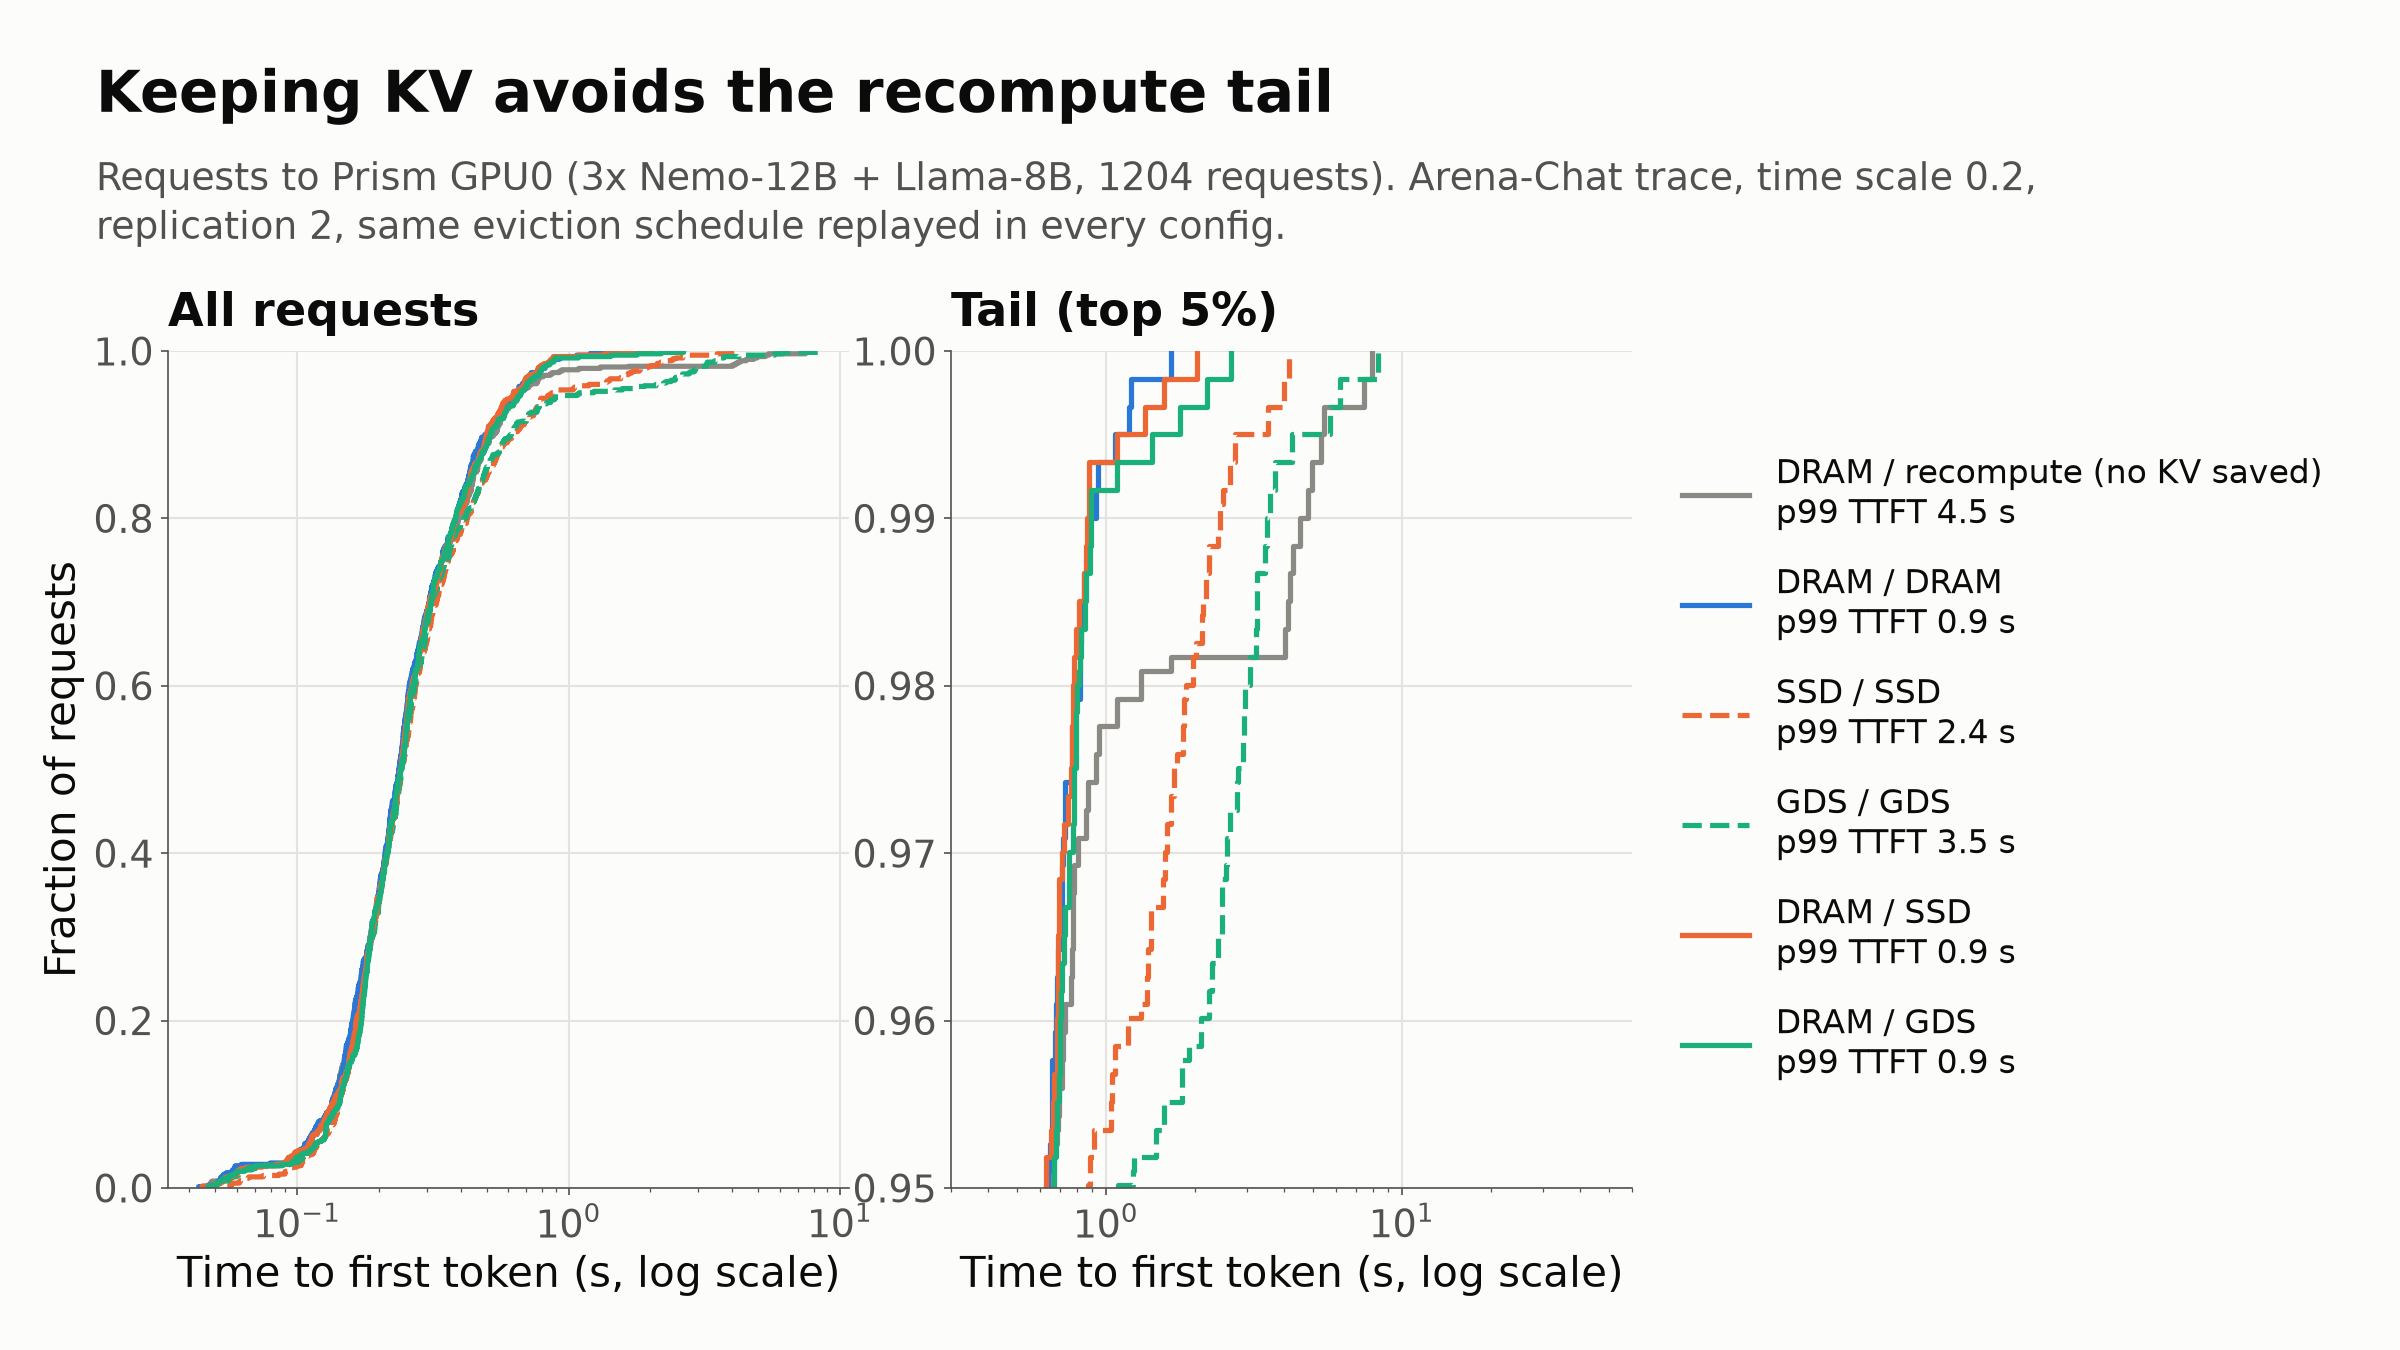
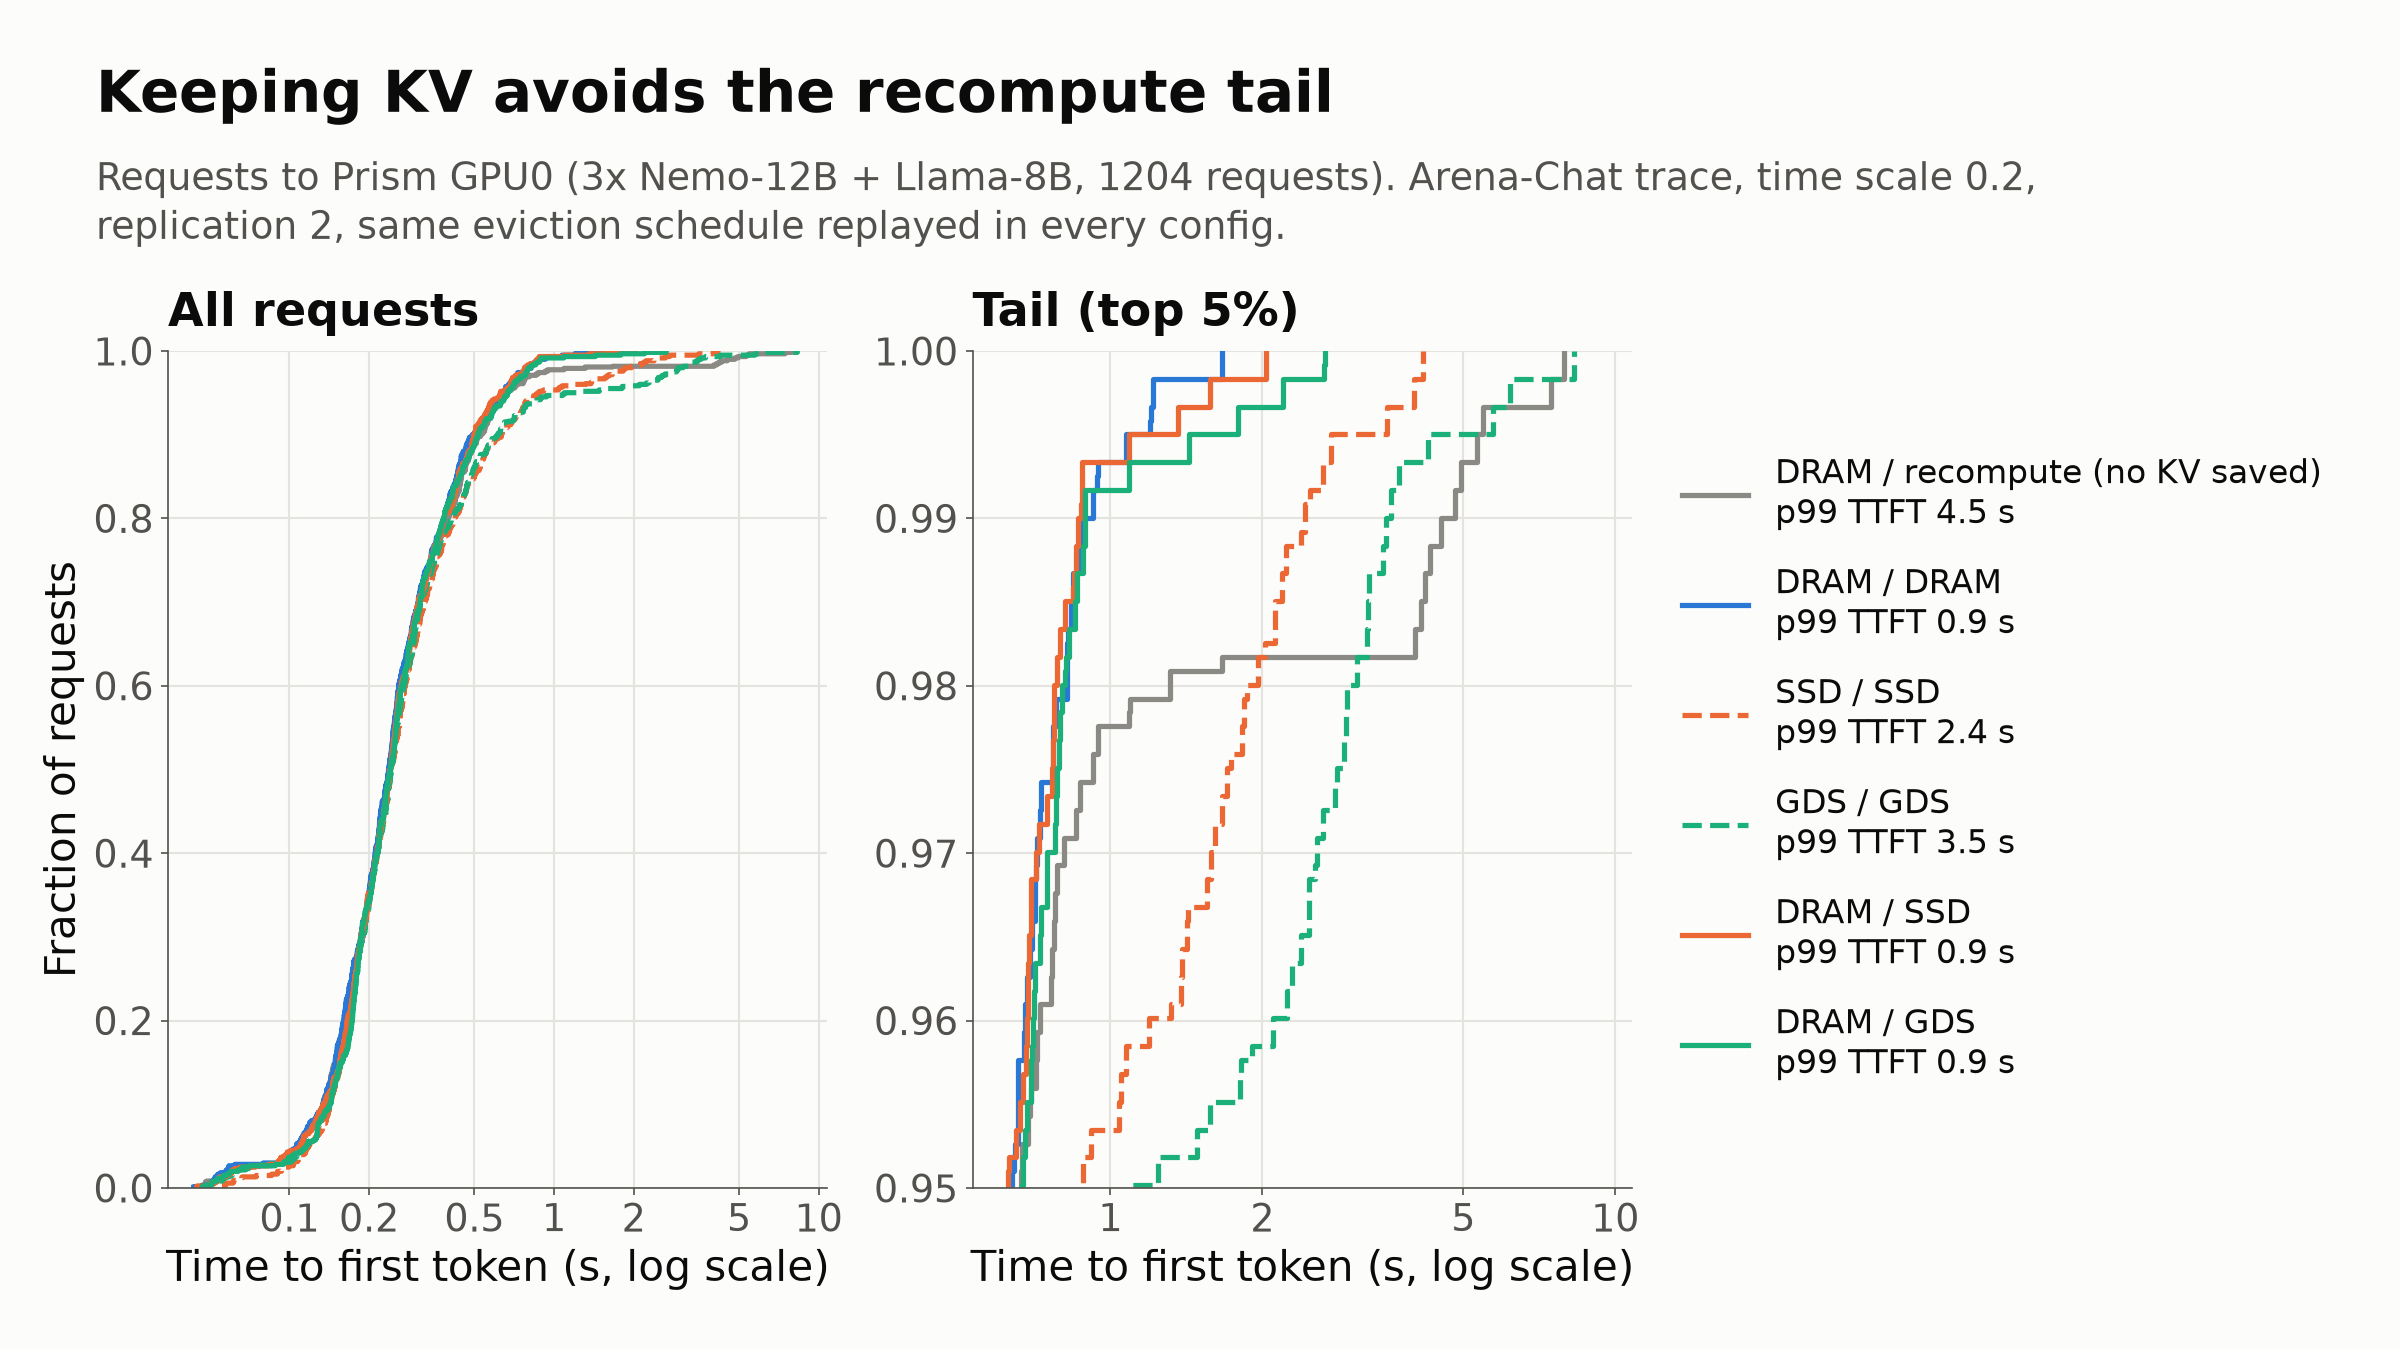
TTFT slide: fit x range to the data, plain-second ticks

diff --git a/analysis/plot_paths_slides.py b/analysis/plot_paths_slides.py
@@ -270,7 +270,7 @@ def fig_dram_traffic():
 
 # 4. TTFT CDF -----------------------------------------------------------------------------
 def fig_ttft():
-    fig, axes = plt.subplots(1, 2, gridspec_kw=dict(wspace=0.15))
+    fig, axes = plt.subplots(1, 2, gridspec_kw=dict(wspace=0.22))
     fig.subplots_adjust(left=0.07, right=0.68, top=0.74, bottom=0.12)
     for c in CONFIGS:
         t = DATA[c][2]
@@ -282,12 +282,20 @@ def fig_ttft():
     for ax in axes:
         ax.set_xscale("log")
         ax.set_xlabel("Time to first token (s, log scale)")
+    ts = [DATA[c][2] for c in CONFIGS]
+    hi = max(t[-1] for t in ts) * 1.3  # both panels end just past the slowest request
+    axes[0].set_xlim(min(t[0] for t in ts) * 0.8, hi)
     axes[0].set_ylim(0, 1.0)
     axes[0].set_ylabel("Fraction of requests")
     axes[0].set_title("All requests", loc="left", fontweight="bold", pad=12)
     axes[1].set_ylim(0.95, 1.0)
-    axes[1].set_xlim(0.3, 60)
+    axes[1].set_xlim(min(np.percentile(t, 95) for t in ts) * 0.85, hi)
     axes[1].set_title("Tail (top 5%)", loc="left", fontweight="bold", pad=12)
+    for ax in axes:  # plain seconds instead of 10^k
+        lo, hi_ = ax.get_xlim()
+        ticks = [v for v in (0.1, 0.2, 0.5, 1, 2, 5, 10, 20, 50) if lo <= v <= hi_]
+        ax.set_xticks(ticks, [f"{v:g}" for v in ticks])
+        ax.xaxis.set_minor_locator(plt.NullLocator())
     axes[1].legend(loc="center left", bbox_to_anchor=(1.03, 0.5), frameon=False, fontsize=16, labelspacing=0.9)
     n = len(DATA["dram+dram"][2])
     headline(fig, "Keeping KV avoids the recompute tail",
